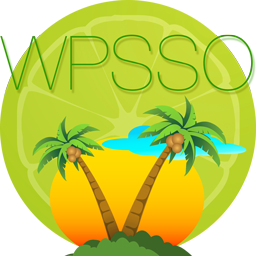
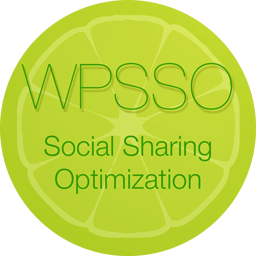
v3.43.3

diff --git a/lib/config-gettext-extract.php b/lib/config-gettext-extract.php
@@ -105,7 +105,7 @@ _x( 'WPSSO extension to add Social Sharing Buttons with support for hashtags, sh
 _x( 'WPSSO extension to manage Organizations and additional Schema Article / Event properties (Publisher, Organizer, Performer, etc.).', 'plugin description', 'wpsso' );
 _x( 'WPSSO extension to provide Apple Store / iTunes and Google Play App meta tags for Apple\'s mobile Safari and Twitter\'s App Card.', 'plugin description', 'wpsso' );
 _x( 'WPSSO extension to provide Pinterest Place, Facebook / Open Graph Location, Schema Local Business, and Local SEO meta tags.', 'plugin description', 'wpsso' );
-_x( 'WPSSO extension to provide updates for the WPSSO (WordPress Social Sharing Optimization) Pro plugin and its Pro extensions.', 'plugin description', 'wpsso' );
+_x( 'WPSSO extension to provide updates for the WPSSO (Social Sharing Optimization) Pro plugin and its Pro extensions.', 'plugin description', 'wpsso' );
 _x( 'WPSSO extension to remove outdated / incomplete Schema Microdata, leaving the Google recommended Schema JSON-LD markup untouched.', 'plugin description', 'wpsso' );
 _x( 'Yes', 'option value', 'wpsso' );
 _x( 'YOURLS', 'option value', 'wpsso' );

diff --git a/lib/config.php b/lib/config.php
@@ -25,7 +25,7 @@ if ( ! class_exists( 'WpssoConfig' ) ) {
 					'version' => '3.43.3',		// plugin version
 					'opt_version' => '520',		// increment when changing default options
 					'short' => 'WPSSO',		// short plugin name
-					'name' => 'WPSSO (WordPress Social Sharing Optimization)',
+					'name' => 'WPSSO (Social Sharing Optimization)',
 					'desc' => 'Automatically generate complete and accurate meta tags + Schema markup from your content for Social Sharing Optimization (SSO) and SEO.',
 					'slug' => 'wpsso',
 					'base' => 'wpsso/wpsso.php',
@@ -511,7 +511,7 @@ if ( ! class_exists( 'WpssoConfig' ) ) {
 				'wpssoum' => array(
 					'short' => 'WPSSO UM',		// short plugin name
 					'name' => 'WPSSO Update Manager (WPSSO UM)',
-					'desc' => 'WPSSO extension to provide updates for the WPSSO (WordPress Social Sharing Optimization) Pro plugin and its Pro extensions.',
+					'desc' => 'WPSSO extension to provide updates for the WPSSO (Social Sharing Optimization) Pro plugin and its Pro extensions.',
 					'slug' => 'wpsso-um',
 					'base' => 'wpsso-um/wpsso-um.php',
 					'update_auth' => '',

diff --git a/wpsso.php b/wpsso.php
@@ -1,6 +1,6 @@
 <?php
 /*
- * Plugin Name: WPSSO (WordPress Social Sharing Optimization)
+ * Plugin Name: WPSSO (Social Sharing Optimization)
  * Plugin Slug: wpsso
  * Text Domain: wpsso
  * Domain Path: /languages
